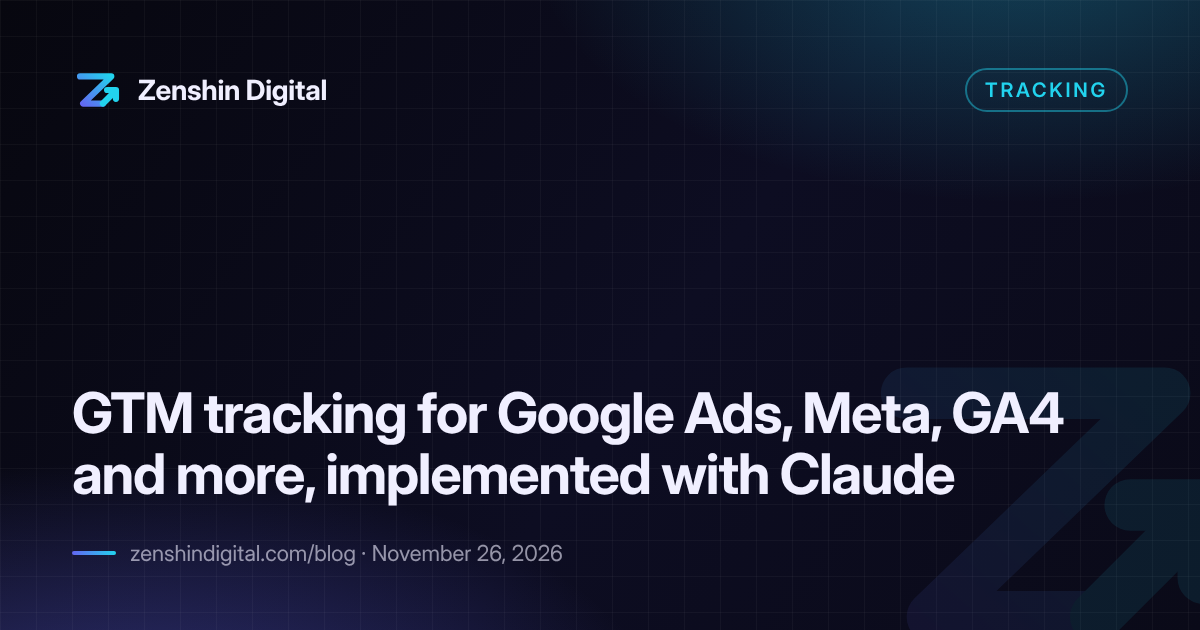
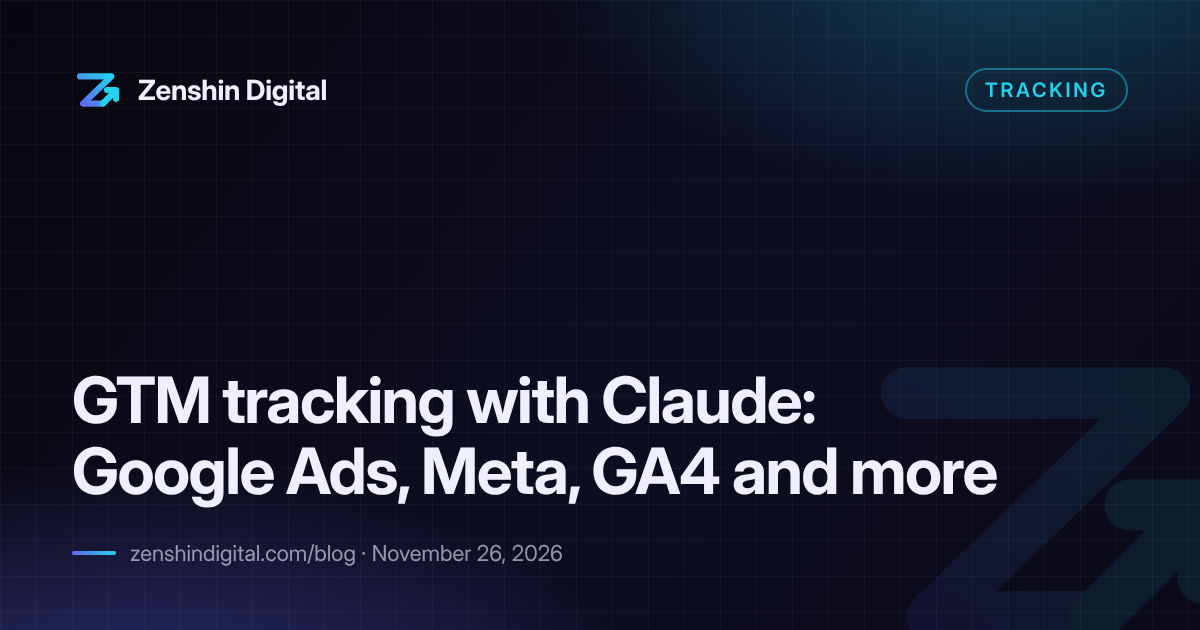
Blog: make tracking article guide-first and less personal
Claude-Session: https://claude.ai/code/session_01RqbJWJvxM8tQuKiB2CGVVh

Changed region(s): [[0.0617, 0.573, 0.8942, 0.8143]]

diff --git a/blog/gtm-tracking-implementation-with-claude.html b/blog/gtm-tracking-implementation-with-claude.html
@@ -3,11 +3,11 @@
 <head>
   <meta charset="UTF-8" />
   <meta name="viewport" content="width=device-width, initial-scale=1.0" />
-  <title>GTM Tracking Implementation with Claude: Google Ads, Meta &amp; GA4 (2026) | Zenshin Digital</title>
-  <meta name="description" content="We successfully implemented Google Tag Manager tracking for Google Ads, Meta, GA4 and more with Claude. Here&#x27;s how Claude connects to each platform, what it can audit and build, and what to watch out for." />
+  <title>GTM Tracking with Claude: Google Ads, Meta &amp; GA4 Conversion Setup (2026) | Zenshin Digital</title>
+  <meta name="description" content="How Claude can audit and build Google Tag Manager tracking for Google Ads, Meta, GA4 and more: how it connects to each platform, what it can do, what to watch out for, and what we learned from a recent implementation." />
   <link rel="canonical" href="https://zenshindigital.com/blog/gtm-tracking-implementation-with-claude.html" />
-  <meta property="og:title" content="GTM Tracking Implementation with Claude: Google Ads, Meta &amp; GA4 (2026) | Zenshin Digital" />
-  <meta property="og:description" content="We successfully implemented Google Tag Manager tracking for Google Ads, Meta, GA4 and more with Claude. Here&#x27;s how Claude connects to each platform, what it can audit and build, and what to watch out for." />
+  <meta property="og:title" content="GTM Tracking with Claude: Google Ads, Meta &amp; GA4 Conversion Setup (2026) | Zenshin Digital" />
+  <meta property="og:description" content="How Claude can audit and build Google Tag Manager tracking for Google Ads, Meta, GA4 and more: how it connects to each platform, what it can do, what to watch out for, and what we learned from a recent implementation." />
   <meta property="og:url" content="https://zenshindigital.com/blog/gtm-tracking-implementation-with-claude.html" />
   <meta property="og:type" content="article" />
   <meta property="og:image" content="https://zenshindigital.com/blog/og/gtm-tracking-implementation-with-claude.png" />
@@ -22,7 +22,7 @@
   <link rel="icon" type="image/svg+xml" href="/assets/brand/zenshin-icon-dark-bg.svg" />
   <link rel="icon" type="image/png" sizes="32x32" href="/assets/brand/favicon-32.png" />
   <link rel="apple-touch-icon" href="/assets/brand/apple-touch-icon.png" />
-  <script type="application/ld+json">{"@context": "https://schema.org", "@type": "NewsArticle", "headline": "GTM tracking for Google Ads, Meta, GA4 and more, implemented with Claude", "description": "We successfully implemented Google Tag Manager tracking for Google Ads, Meta, GA4 and more with Claude. Here's how Claude connects to each platform, what it can audit and build, and what to watch out for.", "datePublished": "2026-11-26", "dateModified": "2026-11-26", "image": ["https://zenshindigital.com/blog/og/gtm-tracking-implementation-with-claude.png"], "mainEntityOfPage": "https://zenshindigital.com/blog/gtm-tracking-implementation-with-claude.html", "author": {"@type": "Person", "name": "Xabier Urrutia", "url": "https://zenshindigital.com/#about"}, "publisher": {"@type": "Organization", "name": "Zenshin Digital", "url": "https://zenshindigital.com"}}</script>
+  <script type="application/ld+json">{"@context": "https://schema.org", "@type": "NewsArticle", "headline": "GTM tracking with Claude: Google Ads, Meta, GA4 and more", "description": "How Claude can audit and build Google Tag Manager tracking for Google Ads, Meta, GA4 and more: how it connects to each platform, what it can do, what to watch out for, and what we learned from a recent implementation.", "datePublished": "2026-11-26", "dateModified": "2026-11-26", "image": ["https://zenshindigital.com/blog/og/gtm-tracking-implementation-with-claude.png"], "mainEntityOfPage": "https://zenshindigital.com/blog/gtm-tracking-implementation-with-claude.html", "author": {"@type": "Person", "name": "Xabier Urrutia", "url": "https://zenshindigital.com/#about"}, "publisher": {"@type": "Organization", "name": "Zenshin Digital", "url": "https://zenshindigital.com"}}</script>
   <script type="application/ld+json">{"@context": "https://schema.org", "@type": "FAQPage", "mainEntity": [{"@type": "Question", "name": "Can Claude set up Google Ads conversion tracking?", "acceptedAnswer": {"@type": "Answer", "text": "Yes, through connectors. Google's official Google Ads API MCP server is read-only, so building conversion tracking requires connectors with write access to Google Tag Manager and Google Ads."}}, {"@type": "Question", "name": "Does Meta have an official connector for Claude?", "acceptedAnswer": {"@type": "Answer", "text": "Yes. Meta announced the open beta of its Meta Ads AI Connectors on April 29, 2026, for AI agents from Anthropic and OpenAI, covering reporting, campaign management, catalog management and signal diagnostics."}}, {"@type": "Question", "name": "Is there an official Google Ads connector in Claude's directory?", "acceptedAnswer": {"@type": "Answer", "text": "Not currently. Google publishes an open-source Google Ads API MCP server for developers, but Claude's connector directory has no first-party Google Ads, GA4 or Meta Ads connector."}}, {"@type": "Question", "name": "Is it safe to let AI change my tracking setup?", "acceptedAnswer": {"@type": "Answer", "text": "Keep changes in a GTM workspace draft, test them in Preview mode, and verify that conversions arrive correctly in each platform before and after publishing."}}]}</script>
 </head>
 <body class="light">
@@ -34,14 +34,14 @@
 <main class="bwrap art">
   <a class="back" href="/blog/">← All articles</a>
   <div class="meta"><span class="tag">Tracking</span><time datetime="2026-11-26">November 26, 2026</time><span></span><span>By Xabier Urrutia</span></div>
-  <h1>GTM tracking for Google Ads, Meta, GA4 and more, implemented with Claude</h1>
-  <p class="lede">We successfully implemented Google Tag Manager tracking for Google Ads, Meta, GA4 and more with Claude. Here&#x27;s how Claude connects to each platform, what it can audit and build, and what to watch out for.</p>
-  <div class="takeaways"><h2>Key facts</h2><ul><li>We successfully implemented GTM tracking for Google Ads, Meta, GA4 and more with Claude.</li><li>Meta offers official Ads AI Connectors for Claude, in open beta since April 29, 2026.</li><li>Google&#x27;s official Google Ads API MCP server is read-only, for analysis and diagnostics.</li><li>Google Tag Manager and GA4 connect through third-party connectors, since Claude&#x27;s directory has no first-party Google Ads, GA4 or Meta Ads connector.</li></ul></div>
+  <h1>GTM tracking with Claude: Google Ads, Meta, GA4 and more</h1>
+  <p class="lede">How Claude can audit and build Google Tag Manager tracking for Google Ads, Meta, GA4 and more: how it connects to each platform, what it can do, what to watch out for, and what we learned from a recent implementation.</p>
+  <div class="takeaways"><h2>Key facts</h2><ul><li>Claude can audit and build GTM tracking for Google Ads, Meta, GA4 and more, through connectors.</li><li>Meta offers official Ads AI Connectors for Claude, in open beta since April 29, 2026.</li><li>Google&#x27;s official Google Ads API MCP server is read-only, for analysis and diagnostics.</li><li>Google Tag Manager and GA4 connect through third-party connectors, since Claude&#x27;s directory has no first-party Google Ads, GA4 or Meta Ads connector.</li></ul></div>
   
   <div class="content">
     
-<p>Conversion tracking is often the hardest part of paid media, and the place where small mistakes cost the most: wrong conversion values, sales counted twice, or tags firing before consent. We recently implemented <strong>Google Tag Manager (GTM) tracking for Google Ads, Meta, GA4 and more with Claude</strong>, working directly in GTM, Google Ads, Meta and GA4. The implementation was successful, and Claude caught a gap between the attribution setup and the live website code before the first sale came in.</p>
-<p>Here is what is possible today, based on the platforms' own announcements and documentation.</p>
+<p>Conversion tracking is one of the most error-prone parts of paid media: wrong conversion values, sales counted twice, or tags firing before consent. Small mistakes lead to budget decisions based on bad data.</p>
+<p>AI assistants such as <strong>Claude</strong> can now take on much of the repetitive work in <strong>Google Tag Manager (GTM)</strong> tracking for Google Ads, Meta, GA4 and other platforms. This guide covers how Claude connects to each platform, what it can audit and build, and what to watch out for, based on the platforms' own announcements and documentation.</p>
 
 <h2>How Claude connects to ad platforms</h2>
 <p>Claude connects to external tools through <strong>connectors</strong> built on the Model Context Protocol (MCP), an open standard that Anthropic launched in November 2024. Each platform is connected differently:</p>
@@ -68,6 +68,9 @@
   <li><strong>Check:</strong> consent setup, duplicate events between platforms, and conversion values, currency and order IDs.</li>
   <li><strong>Clean up:</strong> find outdated or duplicate tags and triggers in old containers.</li>
 </ul>
+
+<h2>From our recent implementation</h2>
+<p>Zenshin Digital recently implemented a full GTM tracking setup for Google Ads, Meta and GA4 with Claude. The implementation was successful. One result stood out: by comparing the live website code with the planned attribution setup, Claude identified a gap and it was fixed before the first conversion was recorded.</p>
 
 <h2>What to watch out for</h2>
 <ul>

diff --git a/blog/amazon-black-friday-ads-chatgpt.html b/blog/amazon-black-friday-ads-chatgpt.html
@@ -74,7 +74,7 @@
   <p>Book a free 30-minute strategy call. We'll review your current setup and identify quick wins.</p>
   <a class="btn" href="mailto:hello@zenshindigital.com?subject=Strategy%20call">Book a Free Strategy Call</a>
 </section>
-  <section class="more"><h2>More paid media news</h2><a class="more-item" href="/blog/gtm-tracking-implementation-with-claude.html"><span class="tag">Tracking</span>GTM tracking for Google Ads, Meta, GA4 and more, implemented with Claude</a><a class="more-item" href="/blog/microsoft-advertising-pinterest-integration.html"><span class="tag">Microsoft Ads</span>Microsoft Advertising campaigns are coming to Pinterest</a><a class="more-item" href="/blog/youtube-shorts-ads-likes-engaged-view-conversions.html"><span class="tag">Google Ads</span>YouTube Shorts ads: a like, comment or share now counts for engaged-view conversions</a></section>
+  <section class="more"><h2>More paid media news</h2><a class="more-item" href="/blog/gtm-tracking-implementation-with-claude.html"><span class="tag">Tracking</span>GTM tracking with Claude: Google Ads, Meta, GA4 and more</a><a class="more-item" href="/blog/microsoft-advertising-pinterest-integration.html"><span class="tag">Microsoft Ads</span>Microsoft Advertising campaigns are coming to Pinterest</a><a class="more-item" href="/blog/youtube-shorts-ads-likes-engaged-view-conversions.html"><span class="tag">Google Ads</span>YouTube Shorts ads: a like, comment or share now counts for engaged-view conversions</a></section>
 </main>
 <footer class="bfoot"><div class="bwrap">
   <span>© 2026 Zenshin Digital</span>

diff --git a/blog/microsoft-advertising-pinterest-integration.html b/blog/microsoft-advertising-pinterest-integration.html
@@ -87,7 +87,7 @@
   <p>Book a free 30-minute strategy call. We'll review your current setup and identify quick wins.</p>
   <a class="btn" href="mailto:hello@zenshindigital.com?subject=Strategy%20call">Book a Free Strategy Call</a>
 </section>
-  <section class="more"><h2>More paid media news</h2><a class="more-item" href="/blog/gtm-tracking-implementation-with-claude.html"><span class="tag">Tracking</span>GTM tracking for Google Ads, Meta, GA4 and more, implemented with Claude</a><a class="more-item" href="/blog/amazon-black-friday-ads-chatgpt.html"><span class="tag">ChatGPT Ads</span>Amazon is running Black Friday ads in ChatGPT</a><a class="more-item" href="/blog/youtube-shorts-ads-likes-engaged-view-conversions.html"><span class="tag">Google Ads</span>YouTube Shorts ads: a like, comment or share now counts for engaged-view conversions</a></section>
+  <section class="more"><h2>More paid media news</h2><a class="more-item" href="/blog/gtm-tracking-implementation-with-claude.html"><span class="tag">Tracking</span>GTM tracking with Claude: Google Ads, Meta, GA4 and more</a><a class="more-item" href="/blog/amazon-black-friday-ads-chatgpt.html"><span class="tag">ChatGPT Ads</span>Amazon is running Black Friday ads in ChatGPT</a><a class="more-item" href="/blog/youtube-shorts-ads-likes-engaged-view-conversions.html"><span class="tag">Google Ads</span>YouTube Shorts ads: a like, comment or share now counts for engaged-view conversions</a></section>
 </main>
 <footer class="bfoot"><div class="bwrap">
   <span>© 2026 Zenshin Digital</span>

diff --git a/blog/google-ai-max-search-term-matchtype.html b/blog/google-ai-max-search-term-matchtype.html
@@ -110,7 +110,7 @@
   <p>Book a free 30-minute strategy call. We'll review your current setup and identify quick wins.</p>
   <a class="btn" href="mailto:hello@zenshindigital.com?subject=Strategy%20call">Book a Free Strategy Call</a>
 </section>
-  <section class="more"><h2>More paid media news</h2><a class="more-item" href="/blog/gtm-tracking-implementation-with-claude.html"><span class="tag">Tracking</span>GTM tracking for Google Ads, Meta, GA4 and more, implemented with Claude</a><a class="more-item" href="/blog/amazon-black-friday-ads-chatgpt.html"><span class="tag">ChatGPT Ads</span>Amazon is running Black Friday ads in ChatGPT</a><a class="more-item" href="/blog/microsoft-advertising-pinterest-integration.html"><span class="tag">Microsoft Ads</span>Microsoft Advertising campaigns are coming to Pinterest</a></section>
+  <section class="more"><h2>More paid media news</h2><a class="more-item" href="/blog/gtm-tracking-implementation-with-claude.html"><span class="tag">Tracking</span>GTM tracking with Claude: Google Ads, Meta, GA4 and more</a><a class="more-item" href="/blog/amazon-black-friday-ads-chatgpt.html"><span class="tag">ChatGPT Ads</span>Amazon is running Black Friday ads in ChatGPT</a><a class="more-item" href="/blog/microsoft-advertising-pinterest-integration.html"><span class="tag">Microsoft Ads</span>Microsoft Advertising campaigns are coming to Pinterest</a></section>
 </main>
 <footer class="bfoot"><div class="bwrap">
   <span>© 2026 Zenshin Digital</span>

diff --git a/blog/amazon-ads-price-claims-policy.html b/blog/amazon-ads-price-claims-policy.html
@@ -95,7 +95,7 @@
   <p>Book a free 30-minute strategy call. We'll review your current setup and identify quick wins.</p>
   <a class="btn" href="mailto:hello@zenshindigital.com?subject=Strategy%20call">Book a Free Strategy Call</a>
 </section>
-  <section class="more"><h2>More paid media news</h2><a class="more-item" href="/blog/gtm-tracking-implementation-with-claude.html"><span class="tag">Tracking</span>GTM tracking for Google Ads, Meta, GA4 and more, implemented with Claude</a><a class="more-item" href="/blog/amazon-black-friday-ads-chatgpt.html"><span class="tag">ChatGPT Ads</span>Amazon is running Black Friday ads in ChatGPT</a><a class="more-item" href="/blog/microsoft-advertising-pinterest-integration.html"><span class="tag">Microsoft Ads</span>Microsoft Advertising campaigns are coming to Pinterest</a></section>
+  <section class="more"><h2>More paid media news</h2><a class="more-item" href="/blog/gtm-tracking-implementation-with-claude.html"><span class="tag">Tracking</span>GTM tracking with Claude: Google Ads, Meta, GA4 and more</a><a class="more-item" href="/blog/amazon-black-friday-ads-chatgpt.html"><span class="tag">ChatGPT Ads</span>Amazon is running Black Friday ads in ChatGPT</a><a class="more-item" href="/blog/microsoft-advertising-pinterest-integration.html"><span class="tag">Microsoft Ads</span>Microsoft Advertising campaigns are coming to Pinterest</a></section>
 </main>
 <footer class="bfoot"><div class="bwrap">
   <span>© 2026 Zenshin Digital</span>

diff --git a/blog/google-ads-under-re-review-status.html b/blog/google-ads-under-re-review-status.html
@@ -85,7 +85,7 @@
   <p>Book a free 30-minute strategy call. We'll review your current setup and identify quick wins.</p>
   <a class="btn" href="mailto:hello@zenshindigital.com?subject=Strategy%20call">Book a Free Strategy Call</a>
 </section>
-  <section class="more"><h2>More paid media news</h2><a class="more-item" href="/blog/gtm-tracking-implementation-with-claude.html"><span class="tag">Tracking</span>GTM tracking for Google Ads, Meta, GA4 and more, implemented with Claude</a><a class="more-item" href="/blog/amazon-black-friday-ads-chatgpt.html"><span class="tag">ChatGPT Ads</span>Amazon is running Black Friday ads in ChatGPT</a><a class="more-item" href="/blog/microsoft-advertising-pinterest-integration.html"><span class="tag">Microsoft Ads</span>Microsoft Advertising campaigns are coming to Pinterest</a></section>
+  <section class="more"><h2>More paid media news</h2><a class="more-item" href="/blog/gtm-tracking-implementation-with-claude.html"><span class="tag">Tracking</span>GTM tracking with Claude: Google Ads, Meta, GA4 and more</a><a class="more-item" href="/blog/amazon-black-friday-ads-chatgpt.html"><span class="tag">ChatGPT Ads</span>Amazon is running Black Friday ads in ChatGPT</a><a class="more-item" href="/blog/microsoft-advertising-pinterest-integration.html"><span class="tag">Microsoft Ads</span>Microsoft Advertising campaigns are coming to Pinterest</a></section>
 </main>
 <footer class="bfoot"><div class="bwrap">
   <span>© 2026 Zenshin Digital</span>

diff --git a/blog/meta-ads-5-existing-posts-one-ad.html b/blog/meta-ads-5-existing-posts-one-ad.html
@@ -89,7 +89,7 @@
   <p>Book a free 30-minute strategy call. We'll review your current setup and identify quick wins.</p>
   <a class="btn" href="mailto:hello@zenshindigital.com?subject=Strategy%20call">Book a Free Strategy Call</a>
 </section>
-  <section class="more"><h2>More paid media news</h2><a class="more-item" href="/blog/gtm-tracking-implementation-with-claude.html"><span class="tag">Tracking</span>GTM tracking for Google Ads, Meta, GA4 and more, implemented with Claude</a><a class="more-item" href="/blog/amazon-black-friday-ads-chatgpt.html"><span class="tag">ChatGPT Ads</span>Amazon is running Black Friday ads in ChatGPT</a><a class="more-item" href="/blog/microsoft-advertising-pinterest-integration.html"><span class="tag">Microsoft Ads</span>Microsoft Advertising campaigns are coming to Pinterest</a></section>
+  <section class="more"><h2>More paid media news</h2><a class="more-item" href="/blog/gtm-tracking-implementation-with-claude.html"><span class="tag">Tracking</span>GTM tracking with Claude: Google Ads, Meta, GA4 and more</a><a class="more-item" href="/blog/amazon-black-friday-ads-chatgpt.html"><span class="tag">ChatGPT Ads</span>Amazon is running Black Friday ads in ChatGPT</a><a class="more-item" href="/blog/microsoft-advertising-pinterest-integration.html"><span class="tag">Microsoft Ads</span>Microsoft Advertising campaigns are coming to Pinterest</a></section>
 </main>
 <footer class="bfoot"><div class="bwrap">
   <span>© 2026 Zenshin Digital</span>

diff --git a/blog/microsoft-ads-automated-bidding-upgrade.html b/blog/microsoft-ads-automated-bidding-upgrade.html
@@ -87,7 +87,7 @@
   <p>Book a free 30-minute strategy call. We'll review your current setup and identify quick wins.</p>
   <a class="btn" href="mailto:hello@zenshindigital.com?subject=Strategy%20call">Book a Free Strategy Call</a>
 </section>
-  <section class="more"><h2>More paid media news</h2><a class="more-item" href="/blog/gtm-tracking-implementation-with-claude.html"><span class="tag">Tracking</span>GTM tracking for Google Ads, Meta, GA4 and more, implemented with Claude</a><a class="more-item" href="/blog/amazon-black-friday-ads-chatgpt.html"><span class="tag">ChatGPT Ads</span>Amazon is running Black Friday ads in ChatGPT</a><a class="more-item" href="/blog/microsoft-advertising-pinterest-integration.html"><span class="tag">Microsoft Ads</span>Microsoft Advertising campaigns are coming to Pinterest</a></section>
+  <section class="more"><h2>More paid media news</h2><a class="more-item" href="/blog/gtm-tracking-implementation-with-claude.html"><span class="tag">Tracking</span>GTM tracking with Claude: Google Ads, Meta, GA4 and more</a><a class="more-item" href="/blog/amazon-black-friday-ads-chatgpt.html"><span class="tag">ChatGPT Ads</span>Amazon is running Black Friday ads in ChatGPT</a><a class="more-item" href="/blog/microsoft-advertising-pinterest-integration.html"><span class="tag">Microsoft Ads</span>Microsoft Advertising campaigns are coming to Pinterest</a></section>
 </main>
 <footer class="bfoot"><div class="bwrap">
   <span>© 2026 Zenshin Digital</span>

diff --git a/blog/microsoft-ads-bing-ai-overviews-november-2026.html b/blog/microsoft-ads-bing-ai-overviews-november-2026.html
@@ -94,7 +94,7 @@
   <p>Book a free 30-minute strategy call. We'll review your current setup and identify quick wins.</p>
   <a class="btn" href="mailto:hello@zenshindigital.com?subject=Strategy%20call">Book a Free Strategy Call</a>
 </section>
-  <section class="more"><h2>More paid media news</h2><a class="more-item" href="/blog/gtm-tracking-implementation-with-claude.html"><span class="tag">Tracking</span>GTM tracking for Google Ads, Meta, GA4 and more, implemented with Claude</a><a class="more-item" href="/blog/amazon-black-friday-ads-chatgpt.html"><span class="tag">ChatGPT Ads</span>Amazon is running Black Friday ads in ChatGPT</a><a class="more-item" href="/blog/microsoft-advertising-pinterest-integration.html"><span class="tag">Microsoft Ads</span>Microsoft Advertising campaigns are coming to Pinterest</a></section>
+  <section class="more"><h2>More paid media news</h2><a class="more-item" href="/blog/gtm-tracking-implementation-with-claude.html"><span class="tag">Tracking</span>GTM tracking with Claude: Google Ads, Meta, GA4 and more</a><a class="more-item" href="/blog/amazon-black-friday-ads-chatgpt.html"><span class="tag">ChatGPT Ads</span>Amazon is running Black Friday ads in ChatGPT</a><a class="more-item" href="/blog/microsoft-advertising-pinterest-integration.html"><span class="tag">Microsoft Ads</span>Microsoft Advertising campaigns are coming to Pinterest</a></section>
 </main>
 <footer class="bfoot"><div class="bwrap">
   <span>© 2026 Zenshin Digital</span>

diff --git a/blog/youtube-shorts-ads-likes-engaged-view-conversions.html b/blog/youtube-shorts-ads-likes-engaged-view-conversions.html
@@ -79,7 +79,7 @@
   <p>Book a free 30-minute strategy call. We'll review your current setup and identify quick wins.</p>
   <a class="btn" href="mailto:hello@zenshindigital.com?subject=Strategy%20call">Book a Free Strategy Call</a>
 </section>
-  <section class="more"><h2>More paid media news</h2><a class="more-item" href="/blog/gtm-tracking-implementation-with-claude.html"><span class="tag">Tracking</span>GTM tracking for Google Ads, Meta, GA4 and more, implemented with Claude</a><a class="more-item" href="/blog/amazon-black-friday-ads-chatgpt.html"><span class="tag">ChatGPT Ads</span>Amazon is running Black Friday ads in ChatGPT</a><a class="more-item" href="/blog/microsoft-advertising-pinterest-integration.html"><span class="tag">Microsoft Ads</span>Microsoft Advertising campaigns are coming to Pinterest</a></section>
+  <section class="more"><h2>More paid media news</h2><a class="more-item" href="/blog/gtm-tracking-implementation-with-claude.html"><span class="tag">Tracking</span>GTM tracking with Claude: Google Ads, Meta, GA4 and more</a><a class="more-item" href="/blog/amazon-black-friday-ads-chatgpt.html"><span class="tag">ChatGPT Ads</span>Amazon is running Black Friday ads in ChatGPT</a><a class="more-item" href="/blog/microsoft-advertising-pinterest-integration.html"><span class="tag">Microsoft Ads</span>Microsoft Advertising campaigns are coming to Pinterest</a></section>
 </main>
 <footer class="bfoot"><div class="bwrap">
   <span>© 2026 Zenshin Digital</span>

diff --git a/blog/index.html b/blog/index.html
@@ -40,8 +40,8 @@
   <a class="post" href="/blog/gtm-tracking-implementation-with-claude.html">
     <div class="post-b">
       <div class="meta"><span class="tag">Tracking</span><time datetime="2026-11-26">November 26, 2026</time></div>
-      <h2>GTM tracking for Google Ads, Meta, GA4 and more, implemented with Claude</h2>
-      <p>We successfully implemented Google Tag Manager tracking for Google Ads, Meta, GA4 and more with Claude. Here&#x27;s how Claude connects to each platform, what it can audit and build, and what to watch out for.</p>
+      <h2>GTM tracking with Claude: Google Ads, Meta, GA4 and more</h2>
+      <p>How Claude can audit and build Google Tag Manager tracking for Google Ads, Meta, GA4 and more: how it connects to each platform, what it can do, what to watch out for, and what we learned from a recent implementation.</p>
       <span class="read">Read article →</span>
     </div>
   </a>

diff --git a/_blog_src/posts.py b/_blog_src/posts.py
@@ -12,19 +12,19 @@ POSTS = [
     date="2026-11-26",
     modified="2026-11-26",
     platform="Tracking",
-    title="GTM tracking for Google Ads, Meta, GA4 and more, implemented with Claude",
-    seo_title="GTM Tracking Implementation with Claude: Google Ads, Meta & GA4 (2026)",
-    description="We successfully implemented Google Tag Manager tracking for Google Ads, Meta, GA4 and more with Claude. Here's how Claude connects to each platform, what it can audit and build, and what to watch out for.",
+    title="GTM tracking with Claude: Google Ads, Meta, GA4 and more",
+    seo_title="GTM Tracking with Claude: Google Ads, Meta & GA4 Conversion Setup (2026)",
+    description="How Claude can audit and build Google Tag Manager tracking for Google Ads, Meta, GA4 and more: how it connects to each platform, what it can do, what to watch out for, and what we learned from a recent implementation.",
     image=None,
     takeaways=[
-      "We successfully implemented GTM tracking for Google Ads, Meta, GA4 and more with Claude.",
+      "Claude can audit and build GTM tracking for Google Ads, Meta, GA4 and more, through connectors.",
       "Meta offers official Ads AI Connectors for Claude, in open beta since April 29, 2026.",
       "Google's official Google Ads API MCP server is read-only, for analysis and diagnostics.",
       "Google Tag Manager and GA4 connect through third-party connectors, since Claude's directory has no first-party Google Ads, GA4 or Meta Ads connector.",
     ],
     body="""
-<p>Conversion tracking is often the hardest part of paid media, and the place where small mistakes cost the most: wrong conversion values, sales counted twice, or tags firing before consent. We recently implemented <strong>Google Tag Manager (GTM) tracking for Google Ads, Meta, GA4 and more with Claude</strong>, working directly in GTM, Google Ads, Meta and GA4. The implementation was successful, and Claude caught a gap between the attribution setup and the live website code before the first sale came in.</p>
-<p>Here is what is possible today, based on the platforms' own announcements and documentation.</p>
+<p>Conversion tracking is one of the most error-prone parts of paid media: wrong conversion values, sales counted twice, or tags firing before consent. Small mistakes lead to budget decisions based on bad data.</p>
+<p>AI assistants such as <strong>Claude</strong> can now take on much of the repetitive work in <strong>Google Tag Manager (GTM)</strong> tracking for Google Ads, Meta, GA4 and other platforms. This guide covers how Claude connects to each platform, what it can audit and build, and what to watch out for, based on the platforms' own announcements and documentation.</p>
 
 <h2>How Claude connects to ad platforms</h2>
 <p>Claude connects to external tools through <strong>connectors</strong> built on the Model Context Protocol (MCP), an open standard that Anthropic launched in November 2024. Each platform is connected differently:</p>
@@ -51,6 +51,9 @@ POSTS = [
   <li><strong>Check:</strong> consent setup, duplicate events between platforms, and conversion values, currency and order IDs.</li>
   <li><strong>Clean up:</strong> find outdated or duplicate tags and triggers in old containers.</li>
 </ul>
+
+<h2>From our recent implementation</h2>
+<p>Zenshin Digital recently implemented a full GTM tracking setup for Google Ads, Meta and GA4 with Claude. The implementation was successful. One result stood out: by comparing the live website code with the planned attribution setup, Claude identified a gap and it was fixed before the first conversion was recorded.</p>
 
 <h2>What to watch out for</h2>
 <ul>
